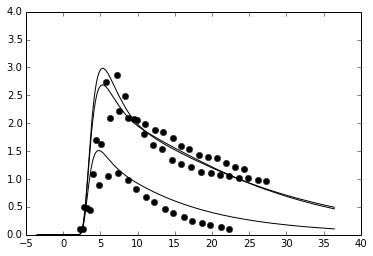
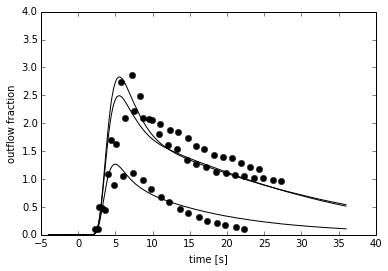
Working on dilution figures

Changed region(s): [[0.0, 0.0, 1.0, 1.0]]

diff --git a/python/simulator/simulator/roadrunner_tools/galactose_dilution_flux.py b/python/simulator/simulator/roadrunner_tools/galactose_dilution_flux.py
@@ -54,8 +54,8 @@ flow_sin = f_fac * flux # [m/s] (scaling to calculate in correct volume flow ran
 # flux sample the simulation is performed.
 
 gal_p_list = []
-for gal in [0.28]:
-# for gal in [0.28, 12.5, 17.5]:
+# for gal in [0.28]:
+for gal in [0.28, 12.5, 17.5]:
     p_list = []
     for f in flow_sin:
         d = { 
